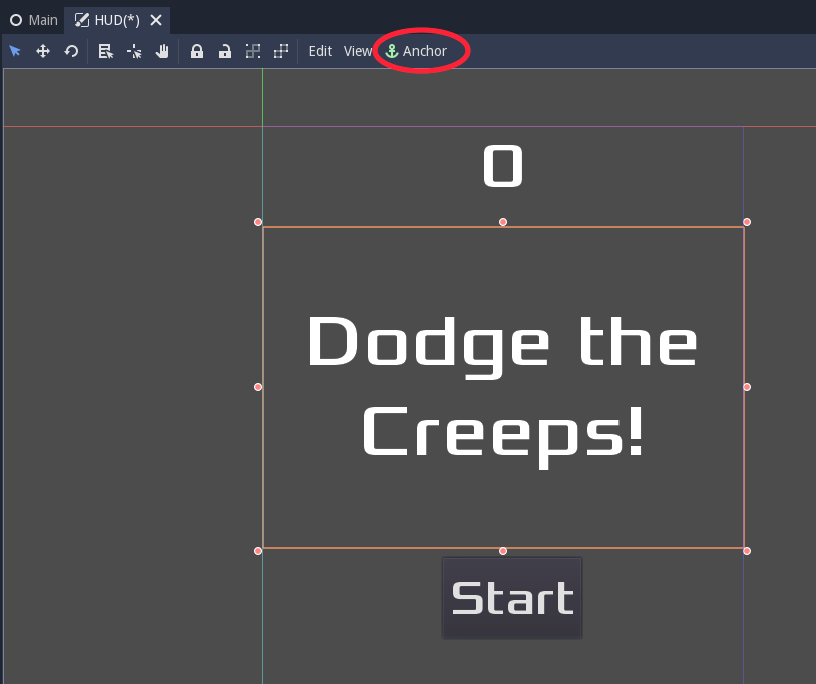
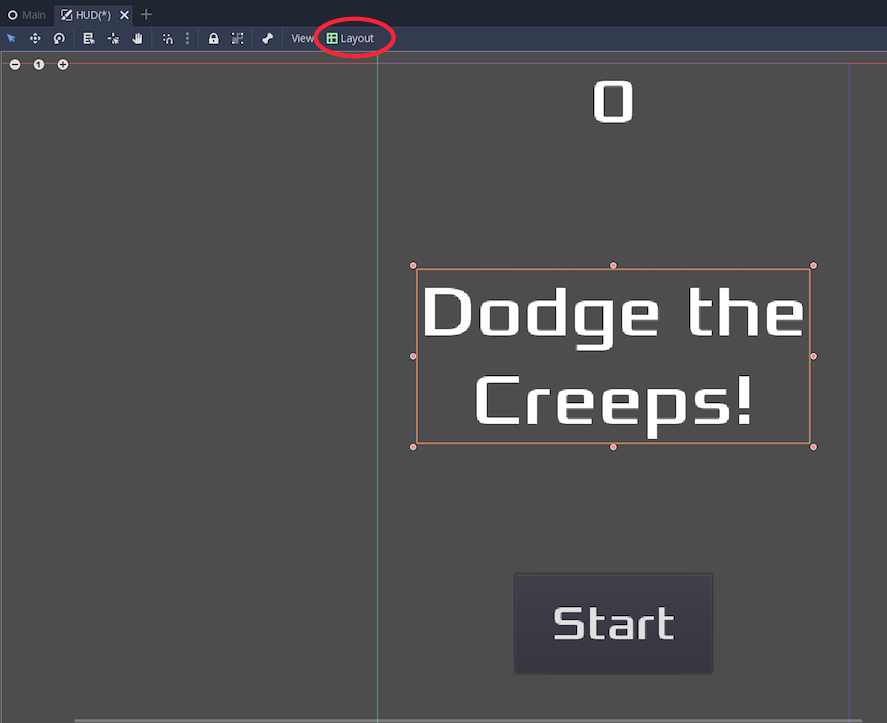
Fix outdated Anchor/Layout section

diff --git a/learning/step_by_step/your_first_game.rst b/learning/step_by_step/your_first_game.rst
@@ -606,12 +606,12 @@ placement, use the following settings:
 ScoreLabel
 ~~~~~~~~~~
 
--  ``Anchor``: "Center Top"
+-  ``Layout``: "Center Top"
 -  ``Margin``:
 
-   -  Left: ``-240``
+   -  Left: ``-25``
    -  Top: ``0``
-   -  Right: ``240``
+   -  Right: ``25``
    -  Bottom: ``100``
 
 -  Text: ``0``
@@ -619,20 +619,20 @@ ScoreLabel
 MessageLabel
 ~~~~~~~~~~~~
 
--  ``Anchor``: "Center"
+-  ``Layout``: "Center Bottom"
 -  ``Margin``:
 
-   -  Left: ``-240``
+   -  Left: ``-100``
    -  Top: ``-200``
-   -  Right: ``240``
-   -  Bottom: ``60``
+   -  Right: ``100``
+   -  Bottom: ``-100``
 
 -  Text: ``Dodge the Creeps!``
 
 StartButton
 ~~~~~~~~~~~
 
--  ``Anchor``: "Center"
+-  ``Layout``: "Center"
 -  ``Margin``:
 
    -  Left: ``-60``
